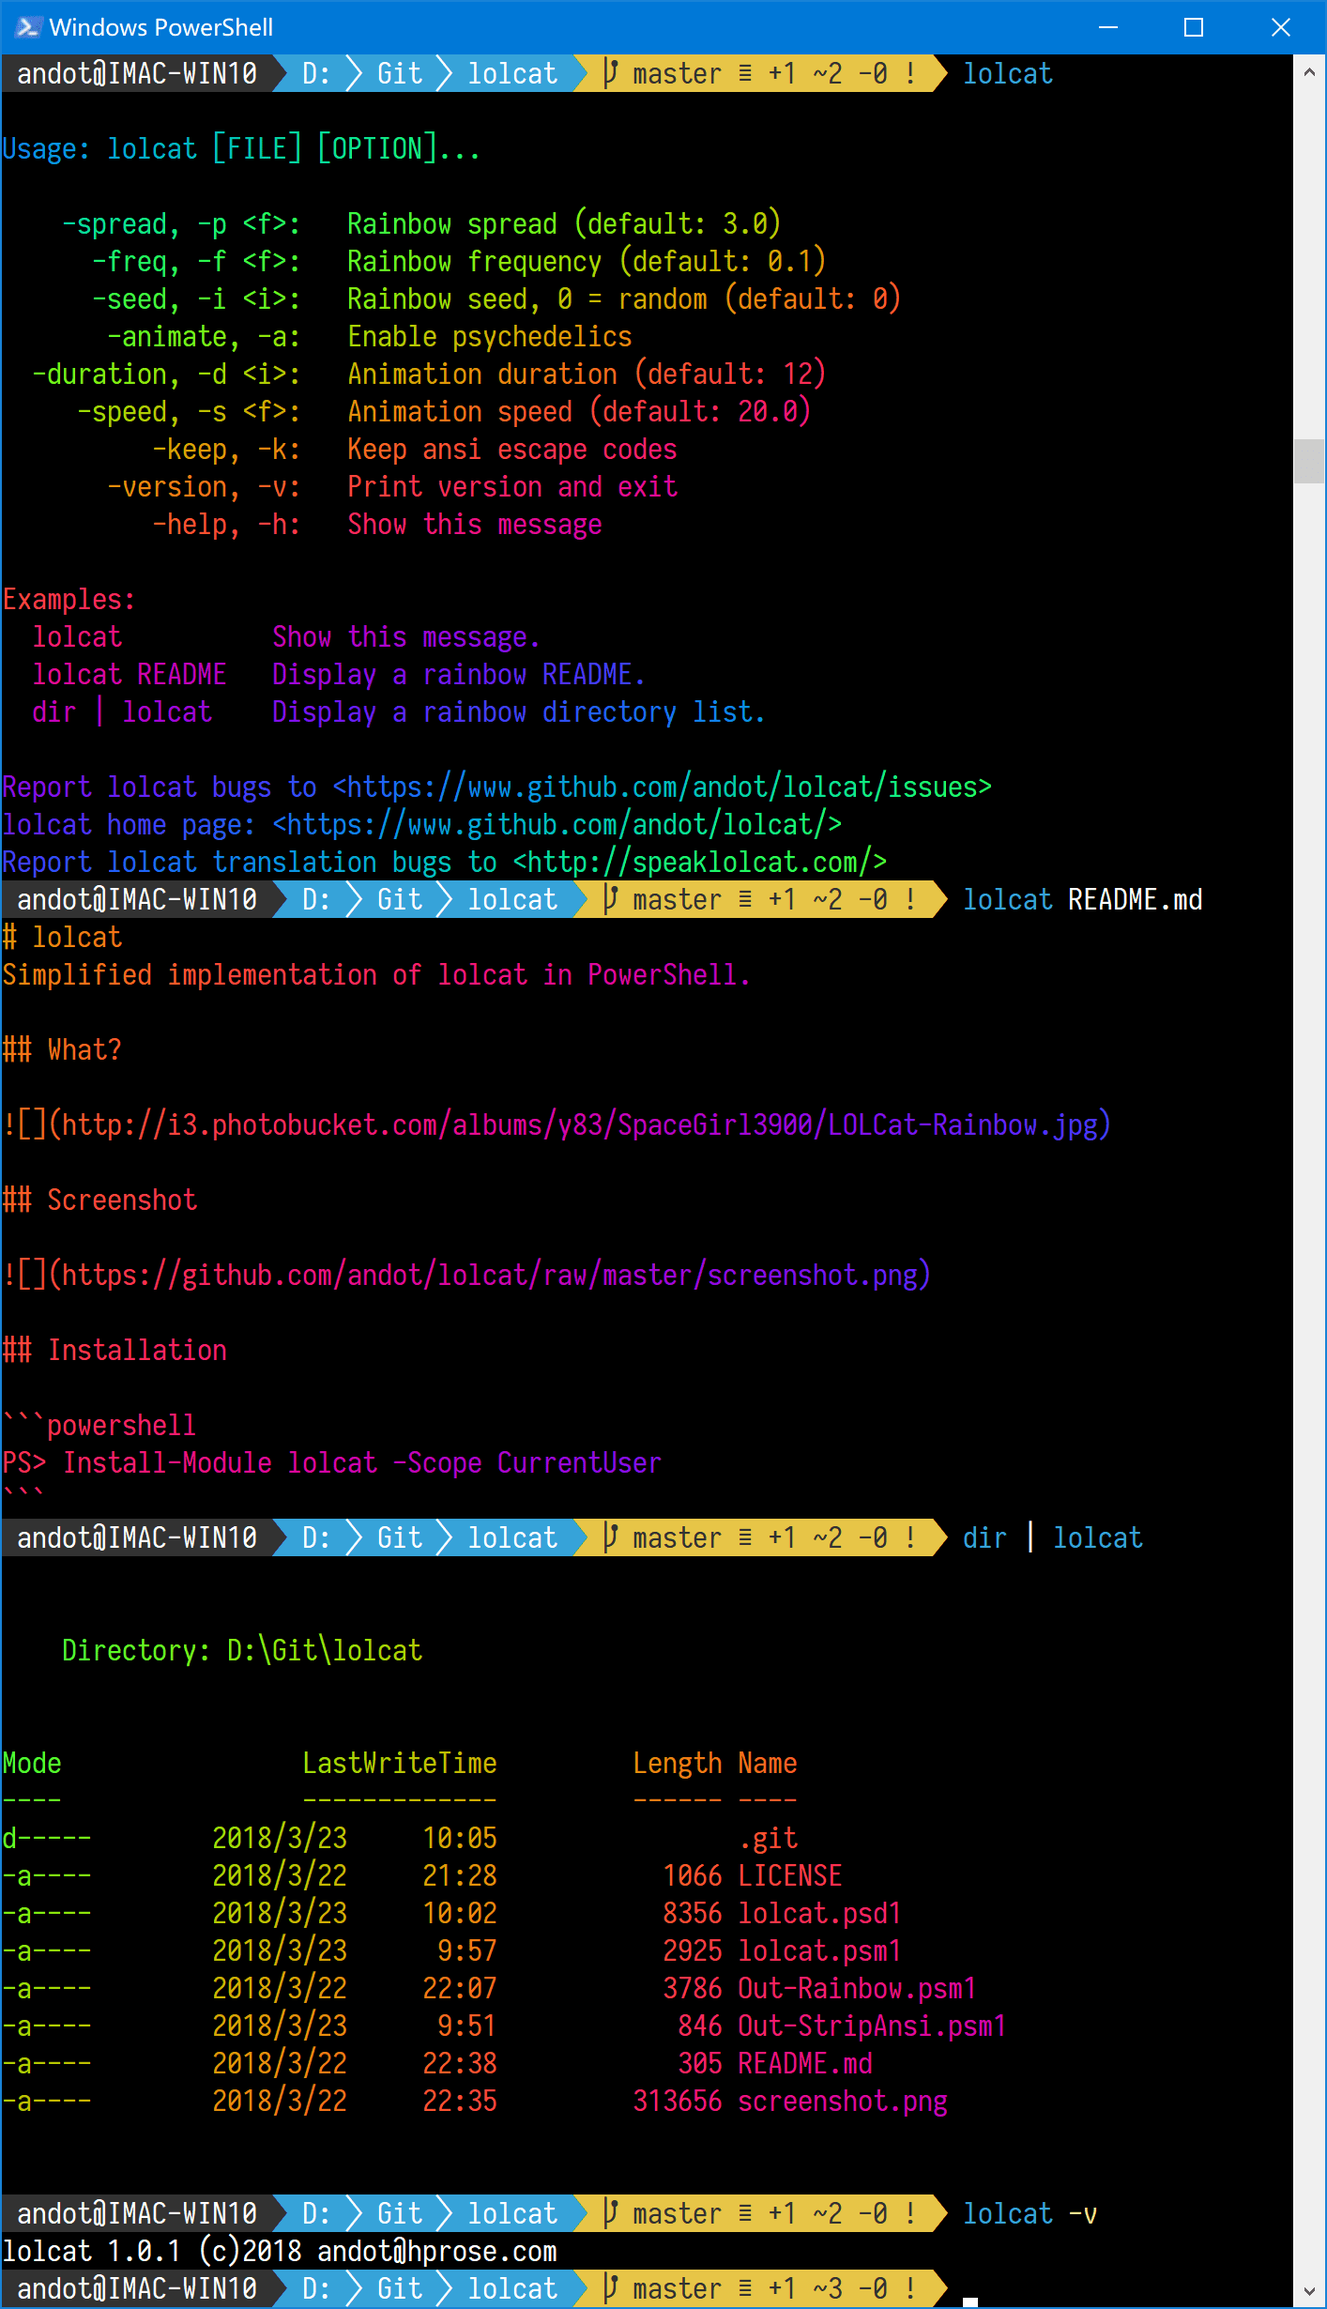
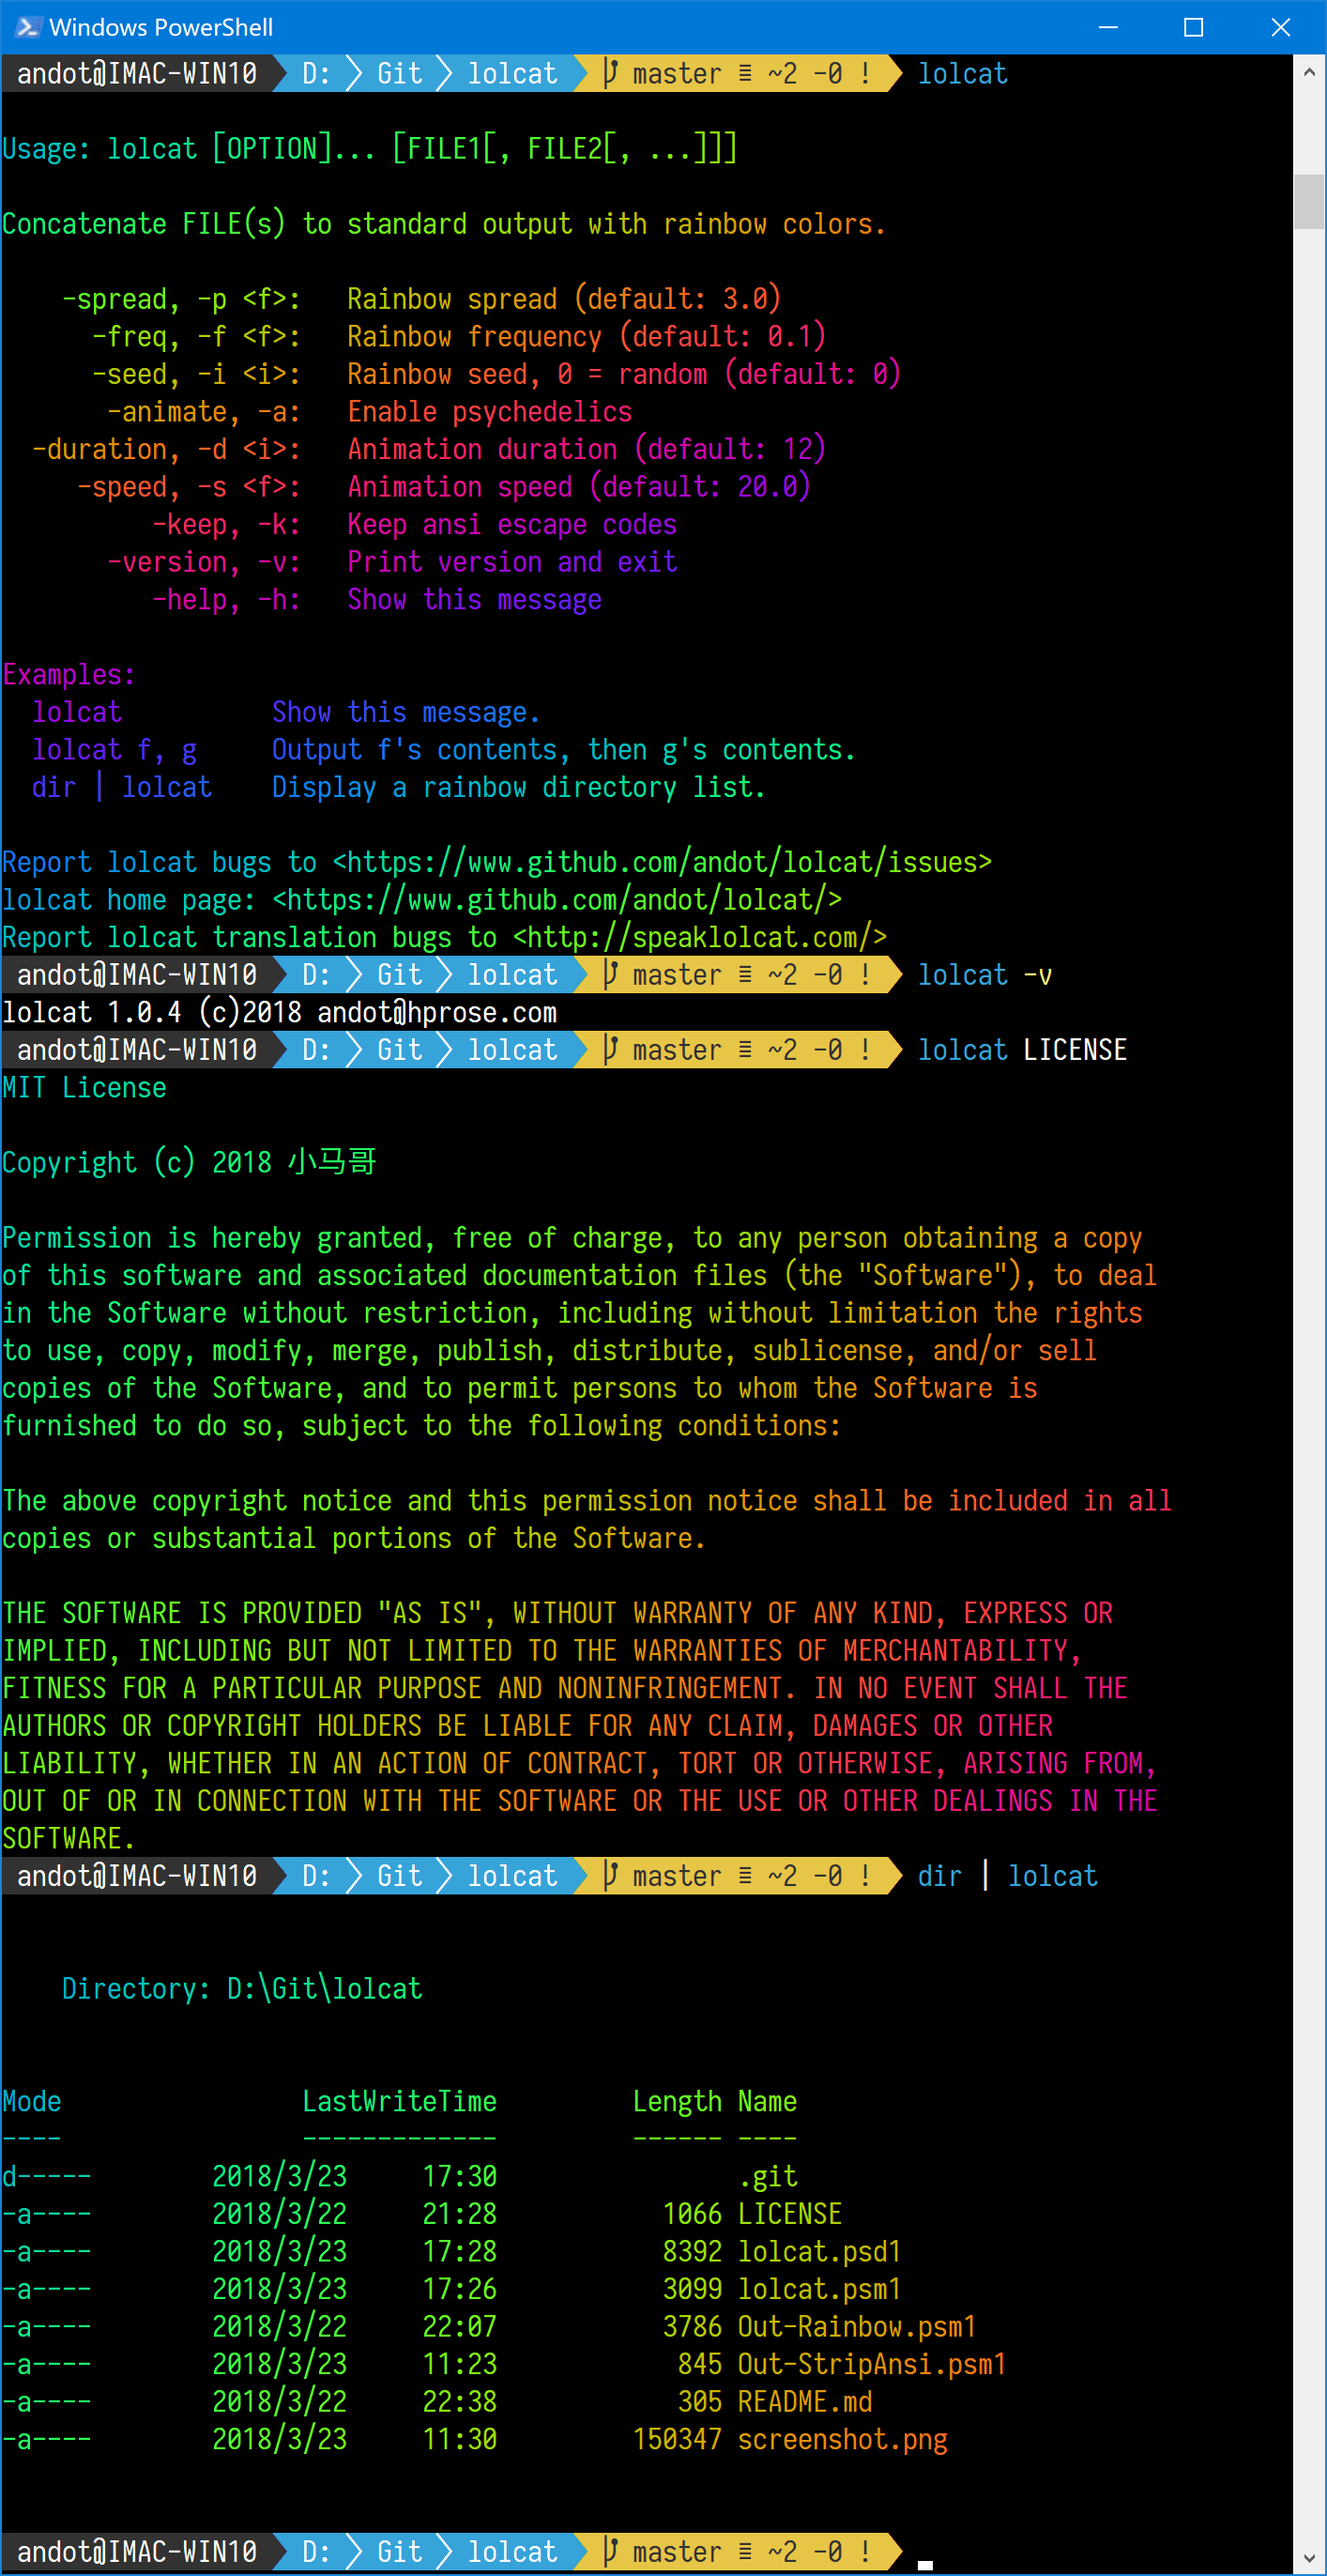
添加文章：lolcat in PowerShell

diff --git a/source/_posts/lolcat-in-powershell.md b/source/_posts/lolcat-in-powershell.md
@@ -1,0 +1,36 @@
+---
+title: lolcat in PowerShell
+date: 2018-03-24 12:09:00
+categories: [编程, PowerShell]
+tags: [PowerShell]
+---
+
+这两天测试 PowerShell 环境，顺便写了一个小程序 `lolcat` 用来检测 Windows 控制台是否支持 24 位色，这个程序原版是 ruby 写的，用来以彩虹色显示文本。它还有一些其它语言的移植，比如 python，c，js，rust，go 等。不过都不太适合在 PowerShell 环境下运行，一是需要安装运行环境，或者需要自己编译，这一点倒还好说，只是比较麻烦而已。第二点就比较致命了，PowerShell 的管道传递的是对象，而其它语言实现的版本，只能处理文本，所以如果在 PowerShell 中使用其它语言实现的 `lolcat` 跟管道结合使用的话，要么显示的不是你想要的东西，要么干脆就挂掉了。所以，我花了两天时间写了这个 PowerShell 的版本。它可以工作在 Windows 10 自带的 PowerShell 环境下，也可以工作在跨平台的 PowerShell 6.0+ 环境下。
+
+项目地址是：[https://github.com/andot/lolcat](https://github.com/andot/lolcat)，欢迎大家点赞~
+
+<!--more-->
+
+它的安装方式很简单，在 PowerShell 控制台下运行：
+
+```powershell
+Install-Module lolcat -Scope CurrentUser
+```
+
+或者在 PowerShell 管理员控制台下运行：
+
+```powershell
+Install-Module lolcat
+```
+
+就可以了。
+
+下面是这个程序的运行截图：
+
+![lolcat in PowerShell](screenshot.png)
+
+![lolcat in VSCode](lolcat-in-vscode.png)
+
+通过上面的截图我们可以看出，Windows 10 的控制台确实是支持 24 位色的，而 VSCode 内嵌的终端则不支持 24 位色。
+
+之前一直奇怪为啥 WSL 在控制台上运行的时候，PowerLine 提示符就显示的好好的，而到了 VSCode 终端下，PowerLine 提示符中的路径分隔符就显示不出来了。现在终于明白了，原来是 VSCode 内嵌终端不支持 24 位色，而 PowerLine 提示符中的路径分隔符所使用的颜色跟背景色比较相近，VSCode 直接把它按照背景色显示了，所以就看不见了。
